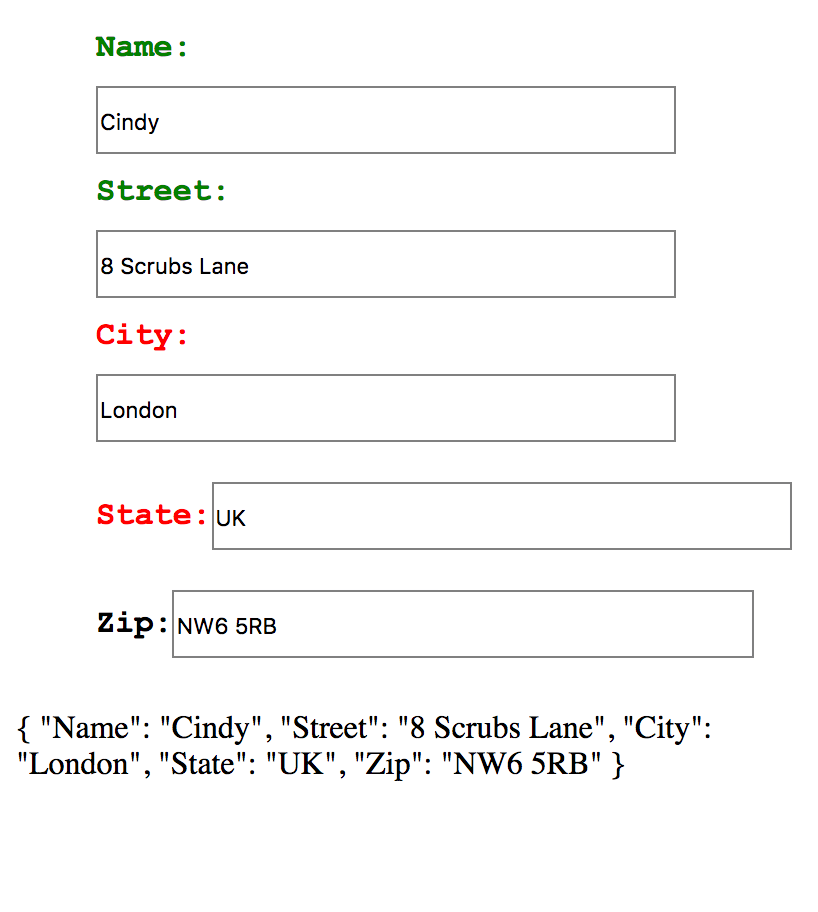
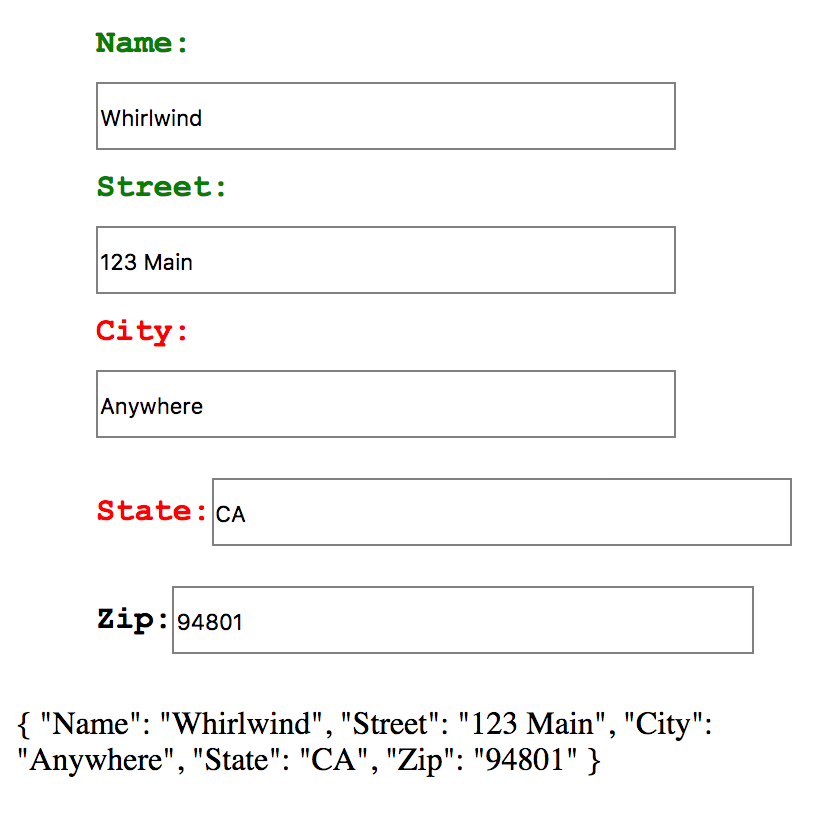
WIP

diff --git a/src/index.html b/src/index.html
@@ -39,11 +39,11 @@
       el: '#app-1',
       data: {
           fields: [
-              {label: 'Name', type: 'text', controlName: 'name', value: 'Cindy', mode: 'web', theme: 'green'},
-              {label: 'Street', type: 'text', controlName: 'street', value: '8 Scrubs Lane', mode: 'web', theme: 'green'},
-              {label: 'City', type: 'text', controlName: 'city', value: 'London', mode: 'web', theme: 'red'},
-              {label: 'State', type: 'select', controlName: 'state', value: 'UK', mode: 'mobile', theme: 'red'},
-              {label: 'Zip', type: 'number', controlName: 'zip', value: 'NW6 5RB', mode: 'mobile'}
+              {label: 'Name', type: 'text', controlName: 'name', value: 'Whirlwind', mode: 'web', theme: 'green'},
+              {label: 'Street', type: 'text', controlName: 'street', value: '123 Main', mode: 'web', theme: 'green'},
+              {label: 'City', type: 'text', controlName: 'city', value: 'Anywhere', mode: 'web', theme: 'red'},
+              {label: 'State', type: 'select', controlName: 'state', value: 'CA', mode: 'mobile', theme: 'red'},
+              {label: 'Zip', type: 'number', controlName: 'zip', value: '94801', mode: 'mobile'}
           ]
       },
       computed: {

diff --git a/www/index.html b/www/index.html
@@ -39,11 +39,11 @@
       el: '#app-1',
       data: {
           fields: [
-              {label: 'Name', type: 'text', controlName: 'name', value: 'Cindy', mode: 'web', theme: 'green'},
-              {label: 'Street', type: 'text', controlName: 'street', value: '8 Scrubs Lane', mode: 'web', theme: 'green'},
-              {label: 'City', type: 'text', controlName: 'city', value: 'London', mode: 'web', theme: 'red'},
-              {label: 'State', type: 'select', controlName: 'state', value: 'UK', mode: 'mobile', theme: 'red'},
-              {label: 'Zip', type: 'number', controlName: 'zip', value: 'NW6 5RB', mode: 'mobile'}
+              {label: 'Name', type: 'text', controlName: 'name', value: 'Whirlwind', mode: 'web', theme: 'green'},
+              {label: 'Street', type: 'text', controlName: 'street', value: '123 Main', mode: 'web', theme: 'green'},
+              {label: 'City', type: 'text', controlName: 'city', value: 'Anywhere', mode: 'web', theme: 'red'},
+              {label: 'State', type: 'select', controlName: 'state', value: 'CA', mode: 'mobile', theme: 'red'},
+              {label: 'Zip', type: 'number', controlName: 'zip', value: '94801', mode: 'mobile'}
           ]
       },
       computed: {

diff --git a/readme.md b/readme.md
@@ -1,4 +1,4 @@
-** A Sample Project to Use Web Component in Vuejs **
+### A Sample Project to Use Web Component in Vuejs ###
 
 ```bash
 npm install
